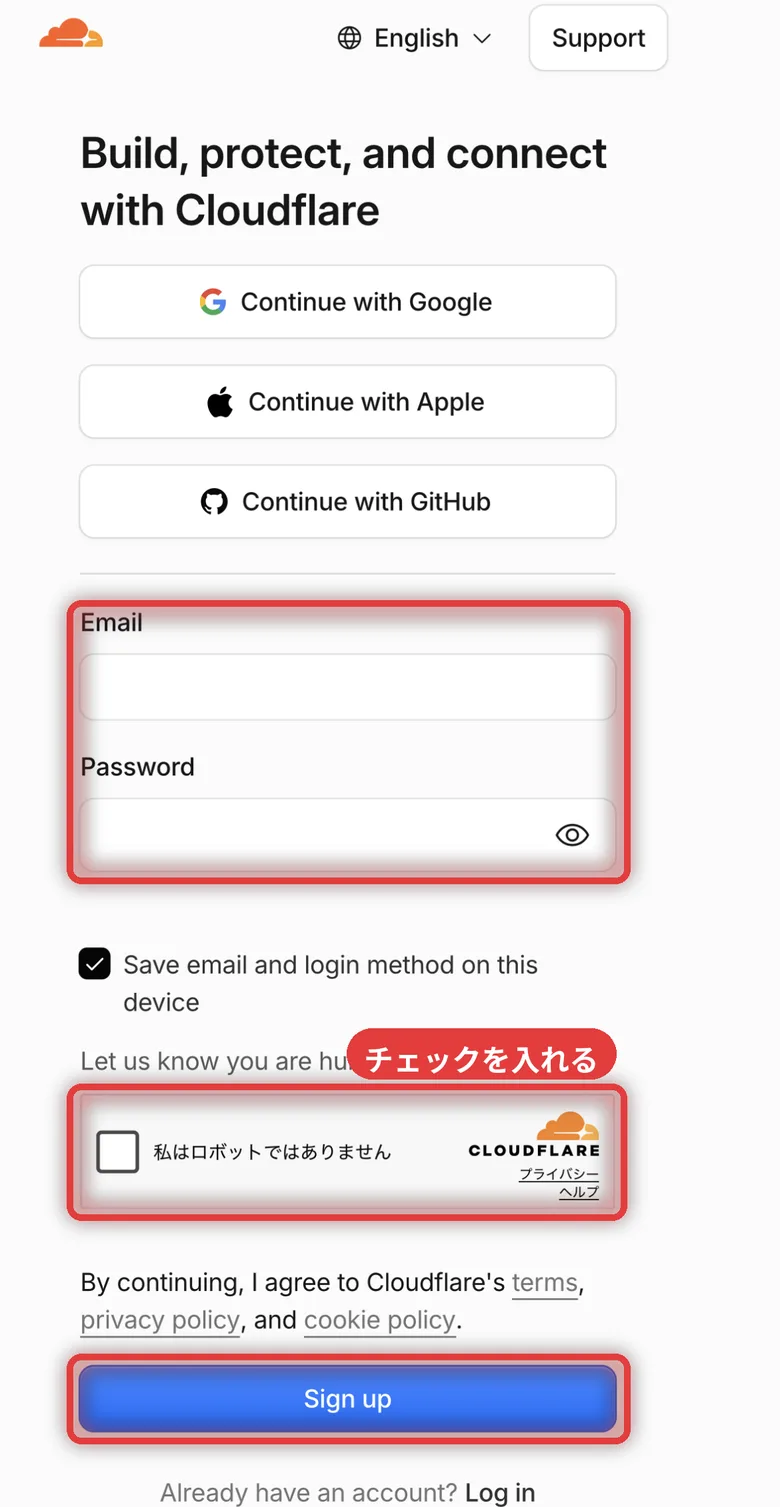
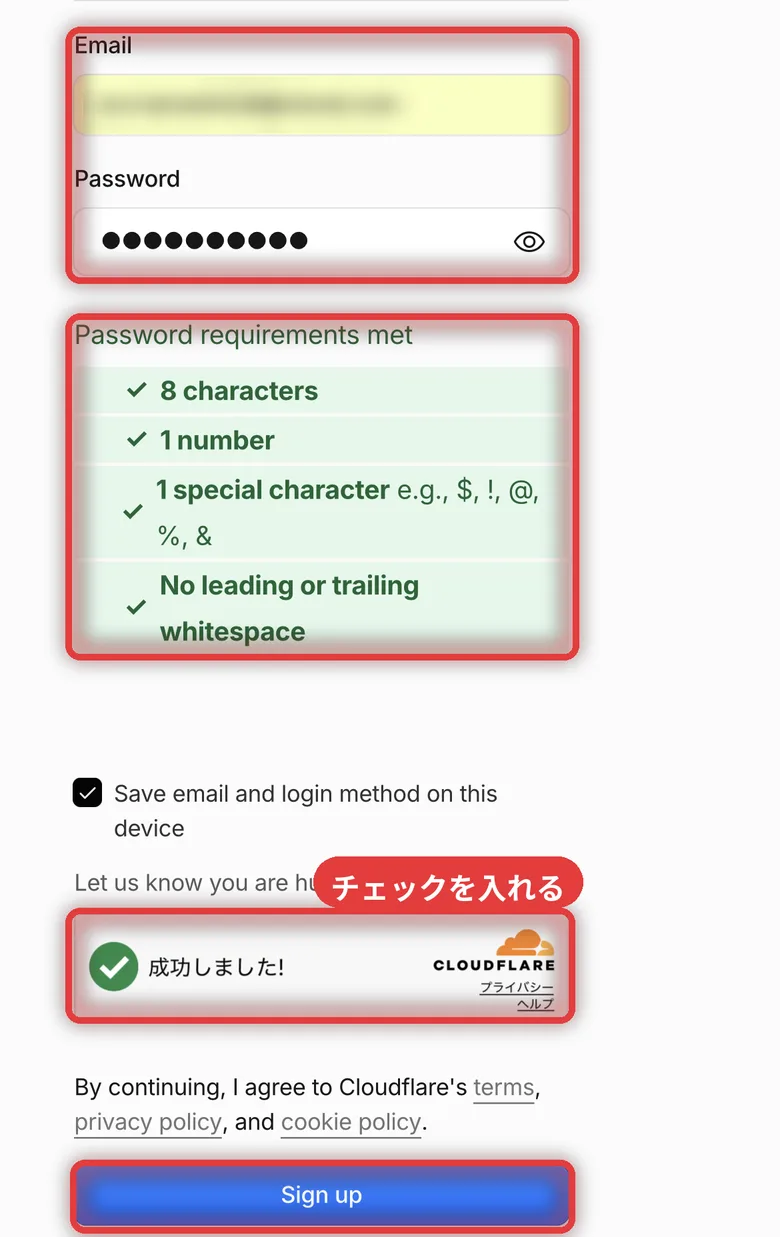
Guide STEP2: replace sign-up shot, add password rules in Japanese, add post-signup screen
Claude-Session: https://claude.ai/code/session_01QtRvDZe1HGyMR9e2ztSiZN

diff --git a/guide/index.html b/guide/index.html
@@ -279,15 +279,23 @@
           <li class="g-item">
             <div class="g-item__body">
               <p class="g-item__text">「Email」にメールアドレス、「Password」にパスワードを入力し、「私はロボットではありません」にチェックを入れて「Sign up」を押します。</p>
-              <p class="g-item__sub">この画面は英語ですが、そのまま進めて大丈夫です。パスワードはXserverとは別のものにして、メモして大切に保管してください。</p>
+              <p class="g-item__sub">この画面は英語ですが、そのまま進めて大丈夫です。パスワードは次の4つをすべて満たすと、下に緑のチェックが付きます。</p>
+              <ul class="g-fields">
+                <li>8文字以上</li>
+                <li>数字を1つ以上入れる</li>
+                <li>記号を1つ以上入れる（$ ! @ % &amp; など）</li>
+                <li>最初と最後にスペース（空白）を入れない</li>
+              </ul>
+              <p class="g-item__sub">パスワードはXserverとは別のものにして、メモして大切に保管してください。</p>
             </div>
-            <figure class="g-shot g-shot--img"><img src="images/step2-2.webp?v=1" alt="Cloudflareの登録画面。Email・Passwordの入力欄、「私はロボットではありません」のチェック欄、「Sign up」ボタンが赤い枠で囲まれている" width="780" height="1507" loading="lazy" decoding="async"></figure>
+            <figure class="g-shot g-shot--img"><img src="images/step2-2.webp?v=2" alt="Cloudflareの登録画面。Email・Passwordの入力欄、パスワードの条件、「成功しました!」と表示されたチェック欄、「Sign up」ボタンが赤い枠で囲まれている" width="780" height="1237" loading="lazy" decoding="async"></figure>
           </li>
           <li class="g-item">
             <div class="g-item__body">
-              <p class="g-item__text">届いた確認メールの中にあるリンクを押します。</p>
+              <p class="g-item__text">この画面が出たら、登録は完了です。</p>
+              <p class="g-item__sub">Cloudflareから確認のメールが届いた場合は、メールの中にあるリンクを押してください。</p>
             </div>
-            <figure class="g-shot"><span>画面の画像（準備中）</span></figure>
+            <figure class="g-shot g-shot--img"><img src="images/step2-3.webp?v=1" alt="登録が終わったあとのCloudflareのトップ画面。「Pick up where you left off.」と表示されている" width="780" height="1507" loading="lazy" decoding="async"></figure>
           </li>
           <li class="g-item">
             <div class="g-item__body">
